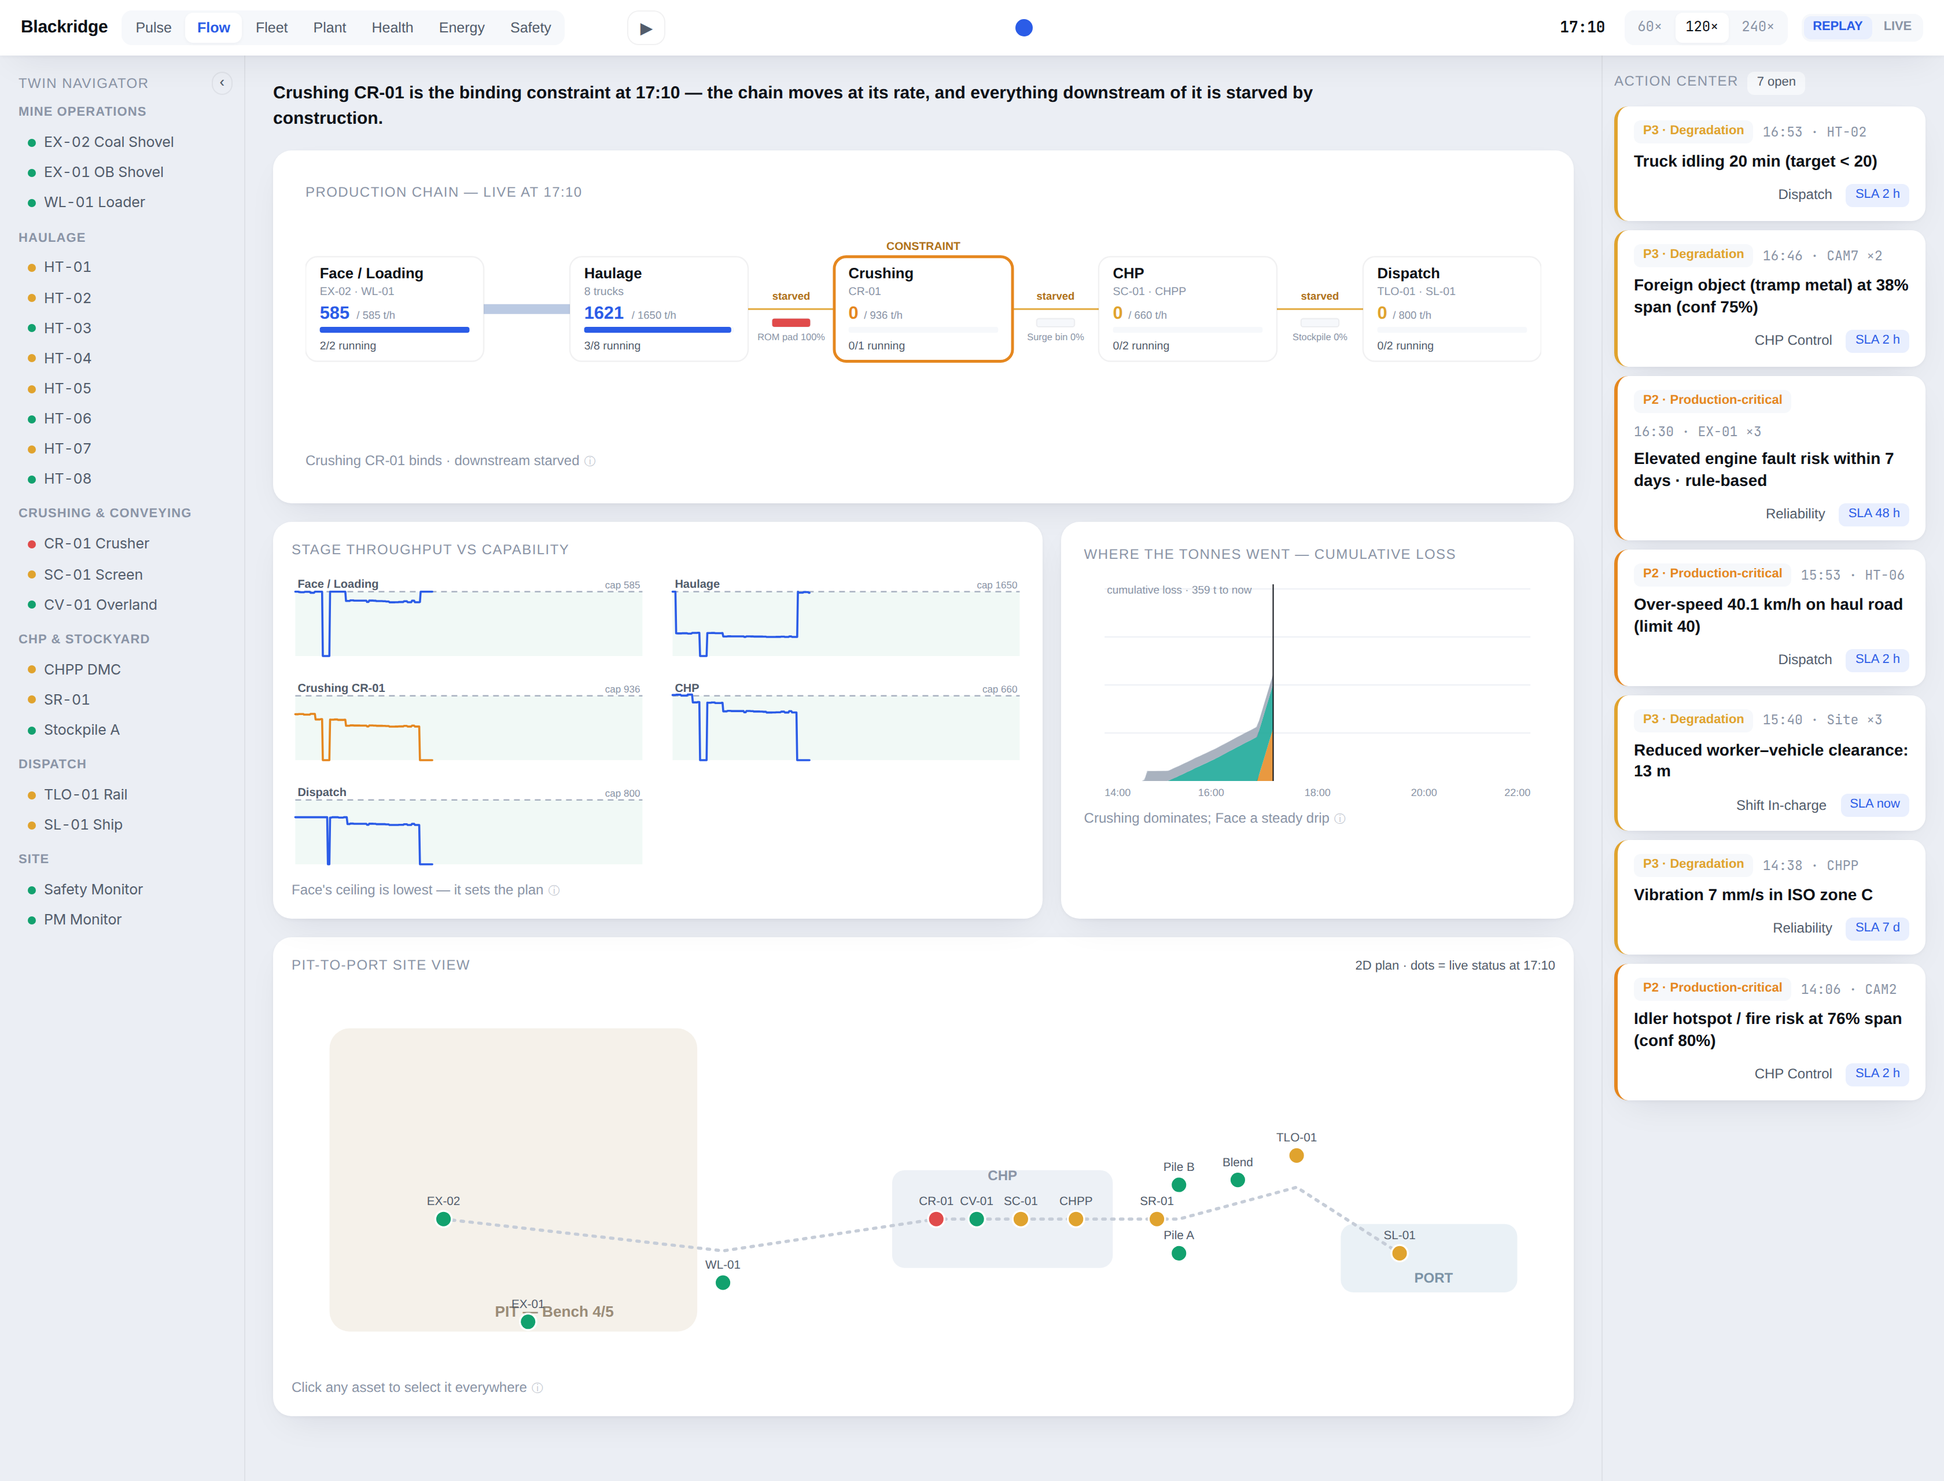
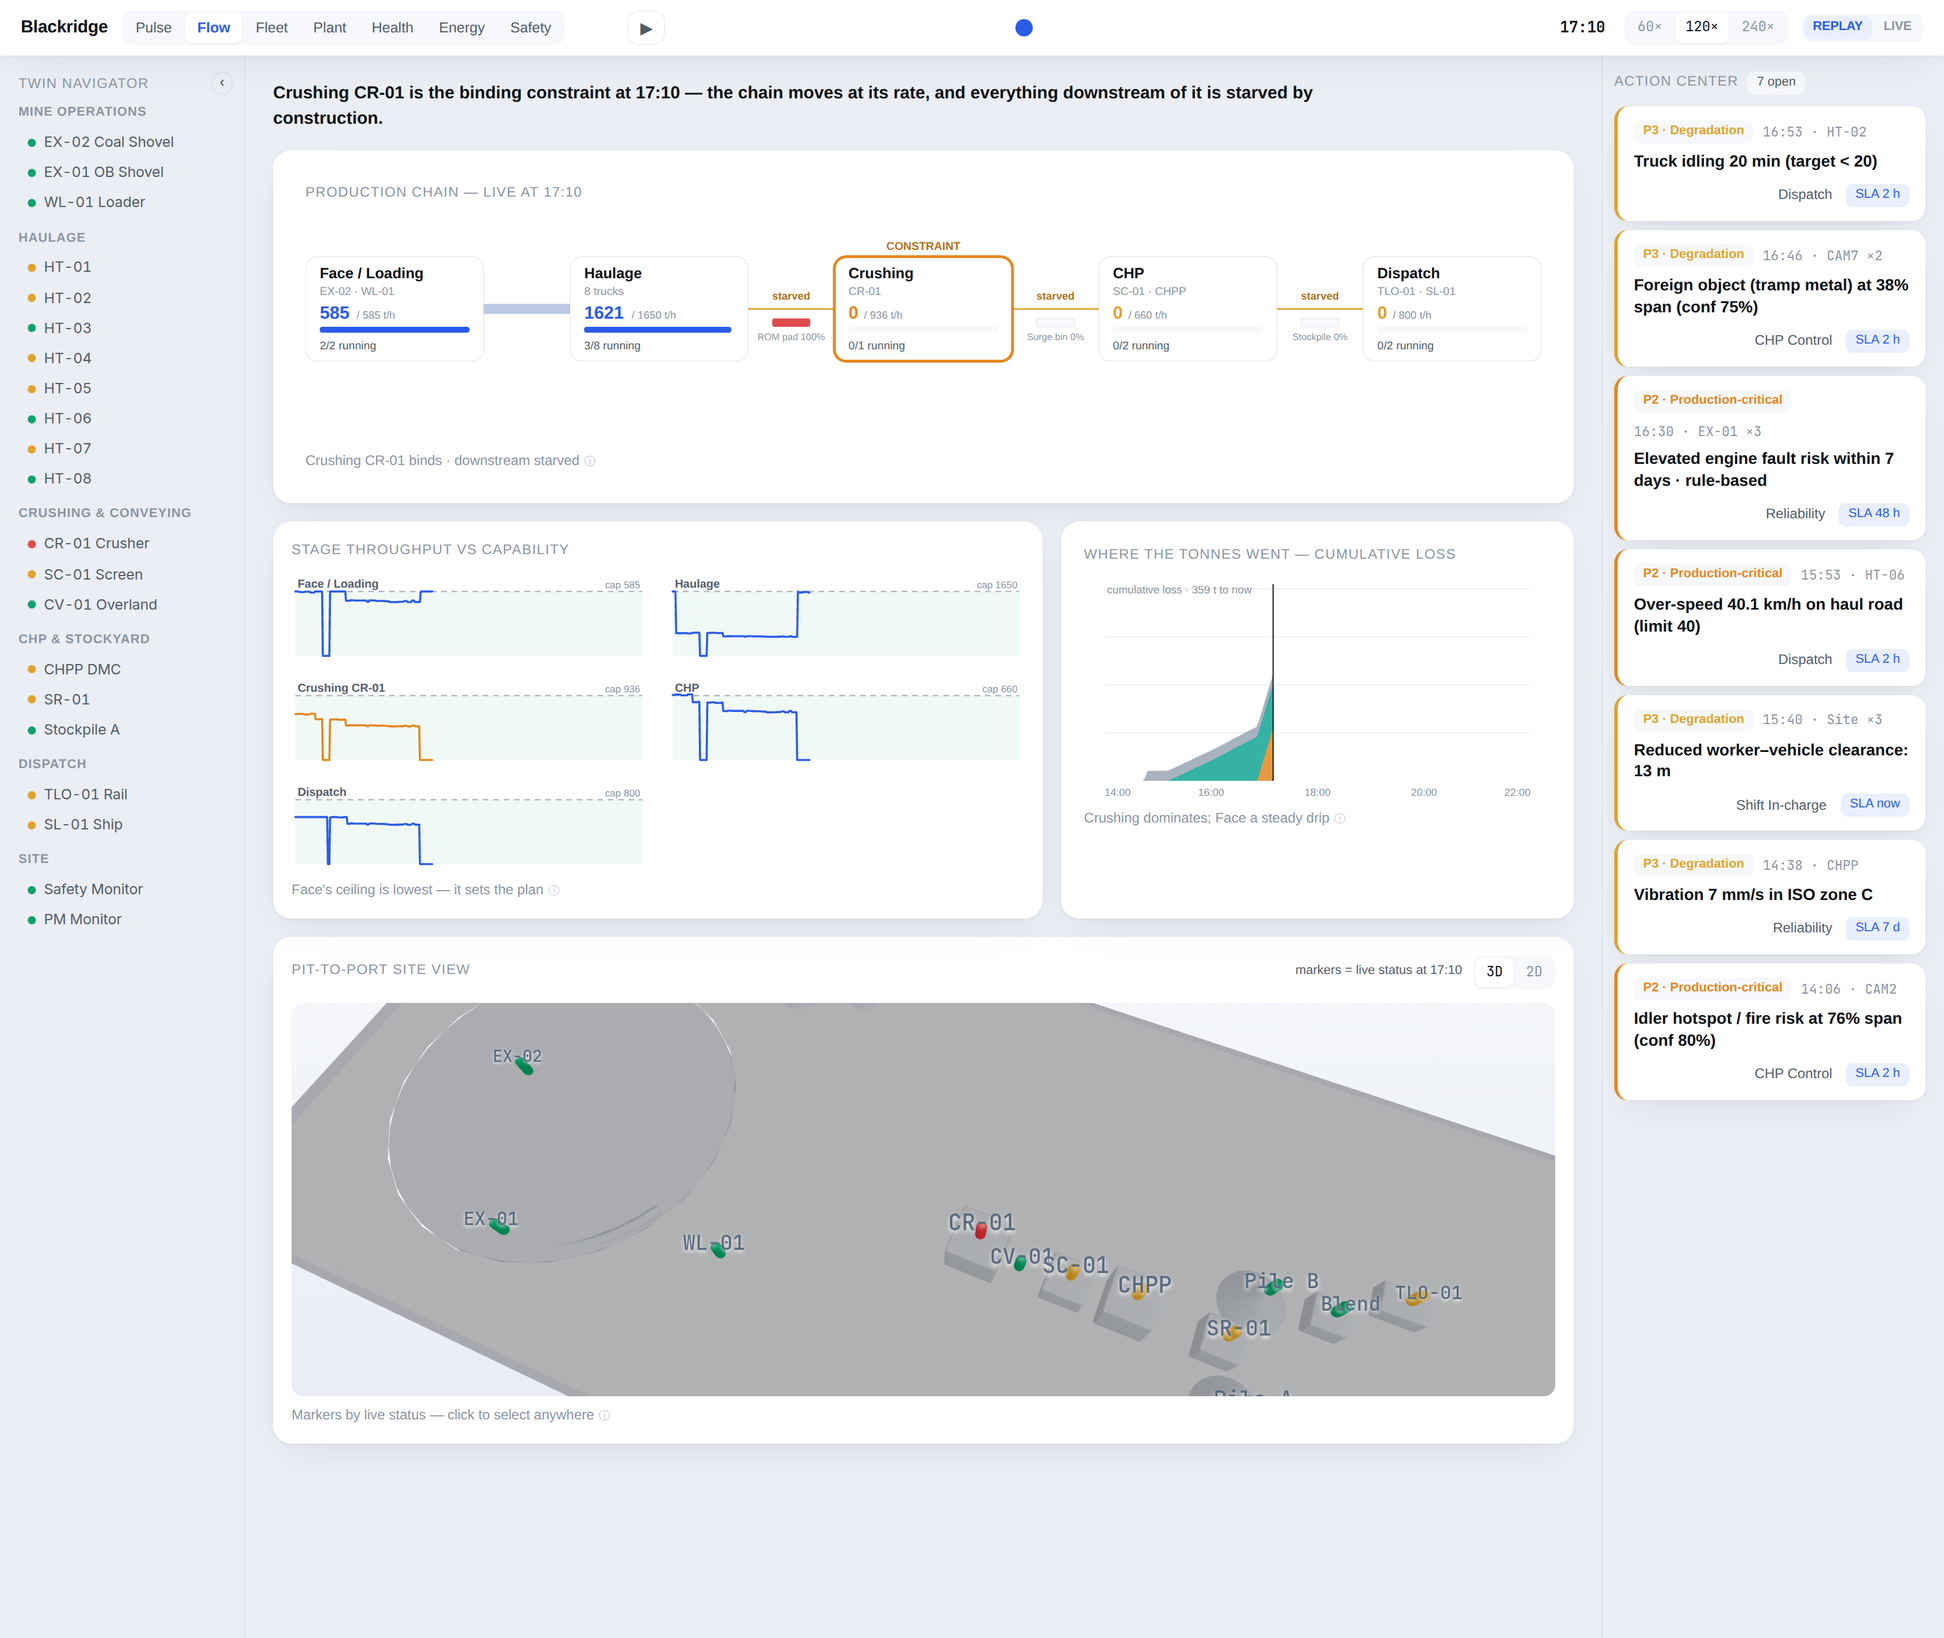
Dashboard v3 · Screen 1 3D pit view (restore, §5)
Replaces the 2D map as Screen 1's site card default (2D kept behind a [3D·2D]
toggle; Screen 6 still uses the 2D SiteMap as its base). Lazy-loaded so the
three/drei bundle never loads for 2D-only use; graceful fallback to the 2D map
when WebGL is unavailable.

Per §5, restraint over geometry:
- Stylised, not survey: a contained model base with a SUNK terraced pit (5
  concentric benches descending into a cut opening), haul-road spiral, dump
  mounds, and the CHP/stockyard/port block cluster from the spec positions.
- Matte clay only — meshStandardMaterial roughness 1, metalness 0, in the
  canvas hue range (#CED6E2–#F0F2F6). No textures, no specular, no reflections.
- Soft ambient (0.82) + one weak directional (0.5); contact-shadow AO only, no
  cast shadows.
- The ONLY colour in the scene is the equipment markers, coloured by live
  status. Block markers lifted clear of their boxes on thin stems so they read.
- Locked iso-ish orbit: no pan, narrow pitch band, ±0.6 rad azimuth, distance
  clamp, and a snap-back lerp on release. No free-fly, no load swoop.
- 8.2k triangles (budget 30k), frameloop=demand (invalidate on scrub change).

Scrubber-reactive: at 16:52 CR-01's marker turns red and SC-01/CHPP/TLO-01 go
amber — the same starvation cascade as the Gantt and the process chain.

Greyscale gate (the deciding test): colour-stripped, the scene reads as a calm
monochrome architectural massing model — base tray, terraced pit, clean plant
[…]

diff --git a/app/src/dashboardV3/screen1/Pit3D.jsx b/app/src/dashboardV3/screen1/Pit3D.jsx
@@ -1,0 +1,263 @@
+// Screen 1 — 3D pit view (§5). Stylised, NOT survey-accurate: concentric bench
+// terraces, a haul-road spiral, dump mounds, the CHP block. Matte clay in one
+// canvas-family hue range (#DDE2EB–#F0F2F6); the ONLY colour in the scene is the
+// equipment markers, coloured by live status. Soft ambient + one weak
+// directional, contact-shadow AO only — no cast shadows, no specular. Locked
+// iso-ish orbit with snap-back. Scrubber-reactive: CR-01 goes red at 16:52 and
+// the downstream markers change with it. Graceful fallback to the 2D SiteMap.
+import { useMemo, useRef, useEffect, useState } from 'react'
+import { Canvas, useThree, useFrame } from '@react-three/fiber'
+import { OrbitControls, ContactShadows, Html, RoundedBox } from '@react-three/drei'
+import * as THREE from 'three'
+import { SITE_POS, SiteMap } from '../viz'
+import { STATUS_DOT } from '../chrome'
+import { useScrub } from '../screen0/store'
+
+// spec (x,z) → scene units. Spec bounds x −195..128, z −78..46.
+const S = 1 / 8
+const sx = (x) => x * S
+const sz = (z) => z * S
+// clay hues (canvas family) — depth read comes from value within the range
+const C = { base: '#F0F2F6', block: '#E9EDF3', road: '#E4E8F0', mound: '#E2E6EE' }
+const TERRACE = ['#E6EAF1', '#E0E5EE', '#DAE0EA', '#D4DBE6', '#CED6E2']   // rim → floor, descending
+const PIT = { x: sx(-150), z: sz(4) }              // pit-1 centre
+const TARGET = [-6, 0, -1]
+
+function webglOK() {
+  try { const c = document.createElement('canvas'); return !!(c.getContext('webgl2') || c.getContext('webgl')) } catch { return false }
+}
+
+export function Pit3D({ fx, derived, m, height = 300 }) {
+  const [failed] = useState(!webglOK())
+  const snap = useMemo(() => fx.snapshot(derived.t0 + m * 60000), [fx, m, derived])
+  // graceful fallback: no WebGL → the 2D plan, silently
+  if (failed) return <SiteMap fx={fx} derived={derived} m={m} height={height - 40} />
+
+  return (
+    <div style={{ height, borderRadius: 10, overflow: 'hidden', background: 'linear-gradient(180deg,#F4F6FA,#EAEEF4)' }}>
+      <Canvas
+        frameloop="demand"
+        dpr={[1, 2]}
+        gl={{ antialias: true, alpha: true, powerPreference: 'high-performance' }}
+        camera={{ position: [TARGET[0] + 9, 20, TARGET[2] + 9], fov: 30, near: 1, far: 200 }}
+        onCreated={({ gl, scene }) => { gl.setClearColor(0x000000, 0); scene.background = null }}
+      >
+        <TriBudgetLog />
+        <ambientLight intensity={0.82} />
+        <directionalLight position={[7, 16, 4]} intensity={0.5} />
+        <Terrain />
+        <CHPBlock />
+        <Markers snap={snap} />
+        <ContactShadows position={[TARGET[0], -0.02, TARGET[2]]} scale={46} resolution={512} blur={2.6} opacity={0.28} far={12} frames={1} color="#8A94A6" />
+        <LockedOrbit />
+        <Invalidate dep={m} />
+      </Canvas>
+    </div>
+  )
+}
+
+/* dev-only triangle-count proof (must stay < 30k) */
+function TriBudgetLog() {
+  const gl = useThree(s => s.gl)
+  useEffect(() => {
+    const t = setTimeout(() => { if (import.meta.env.DEV) console.log('[Pit3D] triangles:', gl.info.render.triangles) }, 400)
+    return () => clearTimeout(t)
+  }, [gl])
+  return null
+}
+
+/* re-render on scrub change under frameloop=demand */
+function Invalidate({ dep }) {
+  const invalidate = useThree(s => s.invalidate)
+  useEffect(() => { invalidate() }, [dep, invalidate])
+  return null
+}
+
+/* ── terrain: a contained model base with a SUNK terraced pit (concentric
+   benches descending), a haul-road spiral, and dump mounds. Depth reads via
+   value steps within the canvas hue range + the weak directional light. ── */
+function Terrain() {
+  const RIM = 5.8, FLOOR_R = 1.3, DEPTH = 3.4, RINGS = 5
+  const benches = useMemo(() => {
+    const rows = []
+    for (let i = 0; i < RINGS; i++) {
+      const t = i / (RINGS - 1)
+      const rOuter = RIM - t * (RIM - FLOOR_R)
+      const y = -t * DEPTH                                   // descending
+      rows.push({ rOuter, y, wall: (i === RINGS - 1 ? DEPTH / RINGS + FLOOR_R * 0.2 : DEPTH / RINGS + 0.35), col: TERRACE[i] })
+    }
+    return rows
+  }, [])
+  const road = useMemo(() => {
+    const pts = []
+    const turns = 1.7, steps = 46
+    for (let i = 0; i <= steps; i++) {
+      const t = i / steps
+      const a = t * Math.PI * 2 * turns + 0.4
+      const r = RIM - 0.2 - t * (RIM - FLOOR_R - 0.4)
+      pts.push(new THREE.Vector3(PIT.x + Math.cos(a) * r, -t * DEPTH + 0.05, PIT.z + Math.sin(a) * r))
+    }
+    return new THREE.CatmullRomCurve3(pts)
+  }, [])
+  // ground as a flat clay surface with a circular HOLE at the pit, so the
+  // descending terraces are actually visible (a solid slab would bury them)
+  const groundGeo = useMemo(() => {
+    const w = 42, d = 19, cx = TARGET[0], cz = TARGET[2]
+    const s = new THREE.Shape()
+    s.moveTo(cx - w / 2, -(cz - d / 2)); s.lineTo(cx + w / 2, -(cz - d / 2))
+    s.lineTo(cx + w / 2, -(cz + d / 2)); s.lineTo(cx - w / 2, -(cz + d / 2)); s.closePath()
+    const hole = new THREE.Path()
+    hole.absarc(PIT.x, -PIT.z, RIM + 0.05, 0, Math.PI * 2, true)
+    s.holes.push(hole)
+    const g = new THREE.ShapeGeometry(s, 12)
+    g.rotateX(-Math.PI / 2)
+    return g
+  }, [])
+  return (
+    <group>
+      {/* clay ground surface (with the pit opening) */}
+      <mesh geometry={groundGeo} position={[0, 0, 0]}>
+        <meshStandardMaterial color={C.base} roughness={1} metalness={0} side={THREE.DoubleSide} />
+      </mesh>
+      {/* thin model-base rim (4 edges) for an architectural-model read */}
+      {[[0, -9.5, 42, 0.5], [0, 9.5, 42, 0.5], [-21, 0, 0.5, 19], [21, 0, 0.5, 19]].map(([dx, dz, w, d], i) => (
+        <mesh key={i} position={[TARGET[0] + dx, -0.16, TARGET[2] + dz]}>
+          <boxGeometry args={[w, 0.32, d]} />
+          <meshStandardMaterial color={C.mound} roughness={1} metalness={0} />
+        </mesh>
+      ))}
+      {/* sunk pit: each bench is a short cylinder wall at its depth; decreasing
+          radius + descending y forms the terraced hole */}
+      {benches.map((b, i) => (
+        <mesh key={i} position={[PIT.x, b.y - b.wall / 2, PIT.z]}>
+          <cylinderGeometry args={[b.rOuter, b.rOuter, b.wall, 44]} />
+          <meshStandardMaterial color={b.col} roughness={1} metalness={0} />
+        </mesh>
+      ))}
+      {/* haul-road spiral (thin ribbon tube) */}
+      <mesh>
+        <tubeGeometry args={[road, 50, 0.2, 5, false]} />
+        <meshStandardMaterial color={C.road} roughness={1} metalness={0} />
+      </mesh>
+      {/* dump mounds outside the rim */}
+      {[[sx(-108), sz(-56), 1.4], [sx(-90), sz(-62), 1.05]].map(([x, z, r], i) => (
+        <mesh key={i} position={[x, 0.08, z]}>
+          <coneGeometry args={[r, r * 0.62, 22]} />
+          <meshStandardMaterial color={C.mound} roughness={1} metalness={0} />
+        </mesh>
+      ))}
+    </group>
+  )
+}
+
+/* ── CHP / stockyard / port block cluster (matte boxes + stockpile cones) ── */
+function CHPBlock() {
+  const box = (id, w, h, d) => { const [x, z] = SITE_POS[id] ?? [0, 0]; return { p: [sx(x), h / 2, sz(z)], a: [w, h, d] } }
+  const boxes = [
+    box('crusher-1', 1.6, 1.3, 1.6), box('screen-1', 1.3, 0.9, 1.3), box('chpp-1', 1.5, 1.4, 1.5),
+    box('stacker-1', 1.2, 1.0, 1.2), box('blend-1', 1.1, 0.8, 1.1), box('loadout-1', 1.4, 0.7, 1.0),
+    box('shiploader-1', 1.2, 1.5, 1.2),
+  ]
+  return (
+    <group>
+      {boxes.map((b, i) => (
+        <RoundedBox key={i} args={b.a} radius={0.08} smoothness={2} position={b.p}>
+          <meshStandardMaterial color={C.block} roughness={1} metalness={0} />
+        </RoundedBox>
+      ))}
+      {/* product stockpile cones */}
+      {['pile-1', 'pile-2'].map((id) => { const [x, z] = SITE_POS[id]; return (
+        <mesh key={id} position={[sx(x), 0.55, sz(z)]}>
+          <coneGeometry args={[1.05, 1.1, 22]} />
+          <meshStandardMaterial color={C.mound} roughness={1} metalness={0} />
+        </mesh>
+      ) })}
+    </group>
+  )
+}
+
+// lift markers that sit on a block/pile so the pill floats clearly above it
+const MARK_LIFT = { 'crusher-1': 1.3, 'screen-1': 0.9, 'chpp-1': 1.4, 'stacker-1': 1.0, 'blend-1': 0.8, 'loadout-1': 0.7, 'shiploader-1': 1.5, 'pile-1': 1.1, 'pile-2': 1.1 }
+
+/* ── markers: the only colour in the scene ── */
+function Markers({ snap }) {
+  const selection = useScrub(s => s.selection)
+  const select = useScrub(s => s.select)
+  return (
+    <group>
+      {Object.entries(SITE_POS).map(([id, [x, z, label]]) => {
+        const st = snap[id]?.status ?? 'running'
+        const col = STATUS_DOT[st] ?? '#C6CDD8'
+        const sel = selection === id
+        const px = sx(x), pz = sz(z), lift = MARK_LIFT[id] ?? 0
+        return (
+          <group key={id} position={[px, lift, pz]}>
+            {/* thin stem so a lifted pill reads as anchored to its block */}
+            {lift > 0.01 && (
+              <mesh position={[0, -lift / 2, 0]}>
+                <cylinderGeometry args={[0.02, 0.02, lift, 6]} />
+                <meshStandardMaterial color="#B8C0CE" roughness={1} />
+              </mesh>
+            )}
+            <mesh position={[0, 0.5, 0]} onClick={(e) => { e.stopPropagation(); select(id) }}
+              onPointerOver={(e) => { e.stopPropagation(); document.body.style.cursor = 'pointer' }}
+              onPointerOut={() => { document.body.style.cursor = '' }}>
+              <capsuleGeometry args={[0.16, 0.52, 4, 12]} />
+              <meshStandardMaterial color={col} emissive={col} emissiveIntensity={0.22} roughness={0.65} metalness={0} />
+            </mesh>
+            {sel && (
+              <mesh position={[0, 0.06, 0]} rotation={[-Math.PI / 2, 0, 0]}>
+                <ringGeometry args={[0.4, 0.5, 28]} />
+                <meshBasicMaterial color="#2B5CE7" transparent opacity={0.9} />
+              </mesh>
+            )}
+            <Html position={[0, 1.0, 0]} center distanceFactor={22} style={{ pointerEvents: 'none' }}>
+              <div style={{ fontSize: 10, fontFamily: 'var(--font-mono, monospace)', color: sel ? '#2B5CE7' : '#5B6B7F', fontWeight: sel ? 700 : 500, whiteSpace: 'nowrap', textShadow: '0 1px 2px rgba(255,255,255,0.95)' }}>{label}</div>
+            </Html>
+          </group>
+        )
+      })}
+    </group>
+  )
+}
+
+/* ── locked iso-ish orbit with snap-back ── */
+function LockedOrbit() {
+  const ref = useRef()
+  const home = useRef(null)
+  const dragging = useRef(false)
+  const invalidate = useThree(s => s.invalidate)
+
+  useEffect(() => {
+    const c = ref.current
+    if (!c) return
+    home.current = { az: c.getAzimuthalAngle(), pol: c.getPolarAngle() }
+    const onStart = () => { dragging.current = true }
+    const onEnd = () => { dragging.current = false; invalidate() }
+    c.addEventListener('start', onStart); c.addEventListener('end', onEnd)
+    return () => { c.removeEventListener('start', onStart); c.removeEventListener('end', onEnd) }
+  }, [invalidate])
+
+  useFrame(() => {
+    const c = ref.current, h = home.current
+    if (!c || !h || dragging.current) return
+    const az = c.getAzimuthalAngle(), pol = c.getPolarAngle()
+    const daz = h.az - az, dpol = h.pol - pol
+    if (Math.abs(daz) < 1e-3 && Math.abs(dpol) < 1e-3) return
+    c.setAzimuthalAngle(az + daz * 0.12)
+    c.setPolarAngle(pol + dpol * 0.12)
+    c.update()
+    invalidate()                            // keep frames coming until settled
+  })
+
+  return (
+    <OrbitControls ref={ref} target={TARGET} makeDefault
+      enablePan={false}
+      minPolarAngle={0.42} maxPolarAngle={0.78}      // narrow pitch band (iso-ish)
+      minAzimuthAngle={Math.PI / 4 - 0.6} maxAzimuthAngle={Math.PI / 4 + 0.6}
+      minDistance={18} maxDistance={32}
+      enableDamping dampingFactor={0.12} />
+  )
+}
+
+export default Pit3D

diff --git a/app/src/dashboardV3/screen1/Screen1.jsx b/app/src/dashboardV3/screen1/Screen1.jsx
@@ -2,14 +2,17 @@
 // hero, plus the 2D pit view. Assembly of existing pieces: ScreenFrame chrome,
 // the fixture/derive layer, the arbitration buckets, plus two new shared viz
 // primitives (ProcessChain, SiteMap). Every card carries a Reading.
-import { useMemo } from 'react'
+import { useMemo, useState, lazy, Suspense } from 'react'
 import { Card, Reading, Thesis } from '../ui'
-import { ScreenFrame } from '../chrome'
+import { ScreenFrame, Segmented } from '../chrome'
 import { SiteMap, MiniSeries } from '../viz'
 import { YIELD, RATED } from '../data/chainSim'
 import { BUCKET_LABEL, STAGE_LABEL } from '../screen0/derive'
 import { BUCKETS } from '../data/arbitration'
 import { ProcessChain } from './ProcessChain'
+
+// 3D pit view lazy-loaded so the three/drei bundle never loads for 2D-only use
+const Pit3D = lazy(() => import('./Pit3D'))
 
 export default function Screen1() {
   return <ScreenFrame title="Production Flow" renderMain={(ctx) => <FlowMain {...ctx} />} />
@@ -69,12 +72,28 @@ function FlowMain({ fx, derived, m }) {
         </Card>
       </div>
 
-      <Card title="Pit-to-port site view" density="working" style={{ marginTop: 16 }}
-        right={<span className="dv3-support" style={{ fontSize: 11 }}>2D plan · dots = live status at {derived.fmt(m)}</span>}>
-        <SiteMap fx={fx} derived={derived} m={m} height={300} />
-        <Reading more="Top-down plan of the operation. Click any asset to select it across every screen. 3D pit view deferred — the 2D plan carries the spatial story for now.">Click any asset to select it everywhere</Reading>
-      </Card>
+      <SiteViewCard fx={fx} derived={derived} m={m} />
     </>
+  )
+}
+
+/* site view — 3D pit (default) or 2D plan, toggle; 3D falls back to 2D if WebGL
+   is unavailable. Screen 6 keeps using the 2D SiteMap as its base. */
+function SiteViewCard({ fx, derived, m }) {
+  const [view, setView] = useState('3D')
+  return (
+    <Card title="Pit-to-port site view" density="working" style={{ marginTop: 16 }}
+      right={<div style={{ display: 'flex', alignItems: 'center', gap: 10 }}>
+        <span className="dv3-support" style={{ fontSize: 11 }}>markers = live status at {derived.fmt(m)}</span>
+        <Segmented options={['3D', '2D']} value={view} onChange={setView} />
+      </div>}>
+      {view === '3D'
+        ? <Suspense fallback={<SiteMap fx={fx} derived={derived} m={m} height={300} />}>
+            <Pit3D fx={fx} derived={derived} m={m} height={340} />
+          </Suspense>
+        : <SiteMap fx={fx} derived={derived} m={m} height={300} />}
+      <Reading more="Stylised clay pit — concentric benches, haul-road spiral, CHP block. The only colour is the equipment markers, by live status; CR-01 turns red at the choke. Click any marker to select it everywhere.">Markers by live status — click to select anywhere</Reading>
+    </Card>
   )
 }
 
